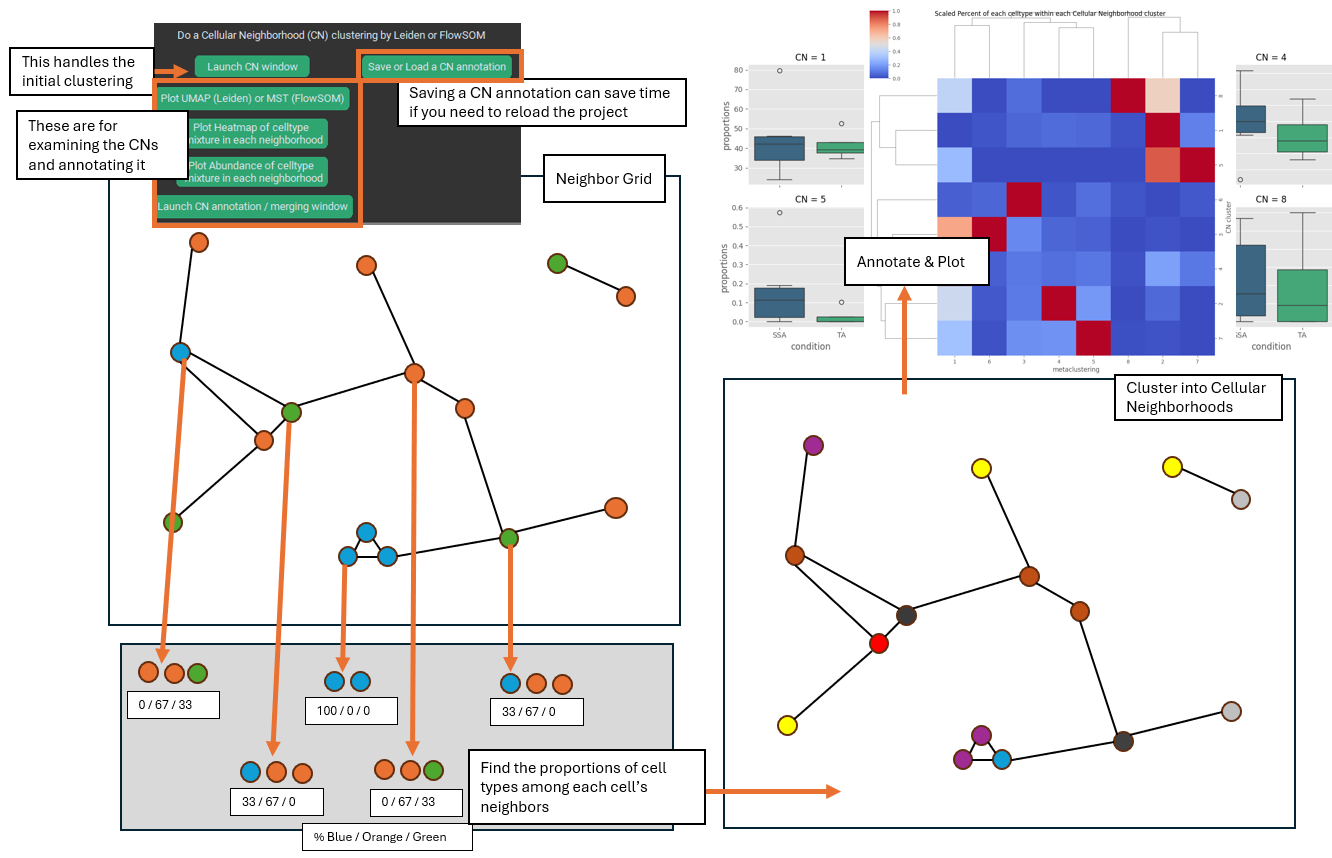
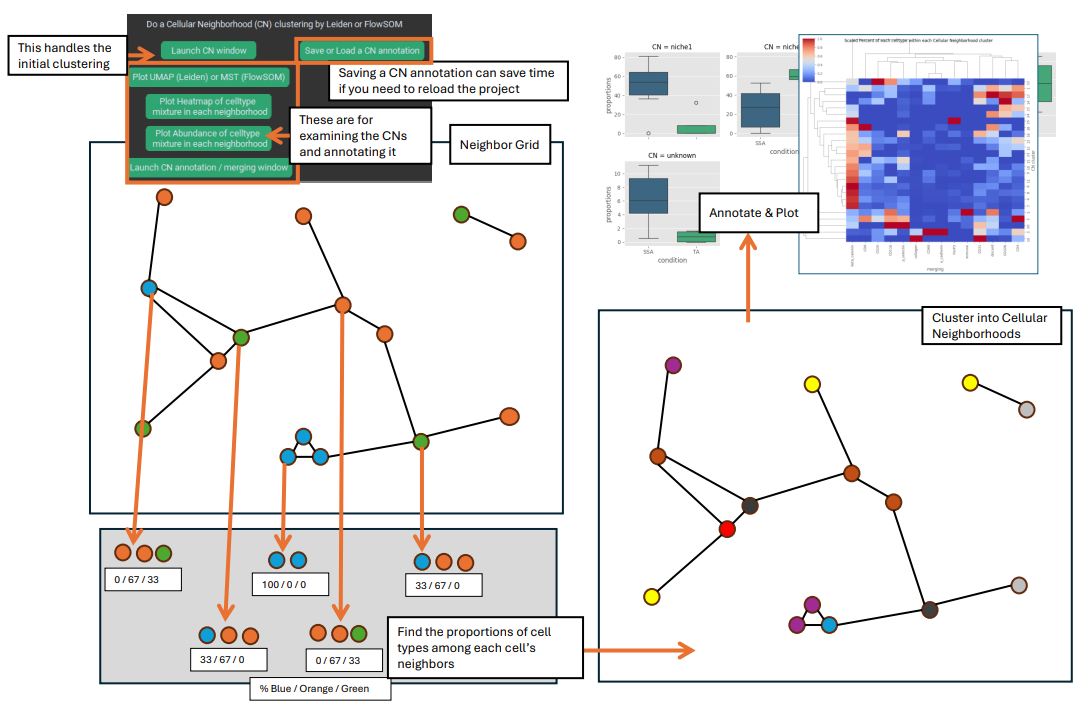
update docs images, edit clustering to classy mask error

diff --git a/palmettobug/Analysis_functions/Analysis.py b/palmettobug/Analysis_functions/Analysis.py
@@ -3222,7 +3222,7 @@ class Analysis:
         zip_dict2 = {}
         for i,ii in zip(unique_sample_ids, unique_labels):
             zip_dict[ii] = int(i) + 1   # 0 is a special number in images!
-            zip_dict2[ii] = str(i + 1)
+            zip_dict2[ii] = str(int(i)) + 1)
         data['label'] = data[clustering].replace(zip_dict)
         data.drop("file_name", axis = 1).to_csv(f'{destination_folder}/{name}.csv', index = False)
         simple_df = pd.DataFrame()

diff --git a/docs/source/WelcometoPalmettoBUG.rst b/docs/source/WelcometoPalmettoBUG.rst
@@ -152,14 +152,12 @@ into html. Other packages used in this process include: nbsphinx (for jupyter no
 and sphinx-rtd-theme.
 
 The media / images (and odp files) in the /docs folder of the GitHub repository were created in 
-Microsoft PowerPoint from screenshots (using Windows Snipping Tool) of the PalmettoBUG program & its output files, as well as screenshots of 
-other programs (like Napari & Windows File Explorer) that are used while analysing the example data  
-Additionally, (of course) PowerPoint objects such as arrows, shapes, etc. were used to compose and arrange the figures, before a 
-final screenshot was taken to save the images as they are displayed here.
+Microsoft PowerPoint and LibreOffice from screenshots (using Windows Snipping Tool) of the PalmettoBUG program & its output files, as well as
+other programs (like Napari & Windows File Explorer) that were used while analysing the example data  
 These screenshots are used under the assumption of fair use given the limited use of such screenshots, the open-source / academic / non-commercial 
 nature of the PalmettoBUG program and its documentation, and the lack of financial consequences from such screenshots -- if this is inaccurate I am happy to remove 
-any offending parts of this documentation. (such copyright concerns could only likely apply to icons in / screenshots of Windows File Explorer, where I may begin to 
-make edits in the documentation anyway, in order to reduce any such concerns)
+any offending parts of this documentation. (such copyright concerns could only likely apply to icons in / screenshots of Windows File Explorer / Microsoft Excel, 
+but I've already begun replacing these with screenshots where I can, using open source alternatives (LibreOffice, Files)).
 
 
 .. |image1| image:: media/Welcome1.png

diff --git a/README.md b/README.md
@@ -13,7 +13,6 @@ Final development plans:
         - Update images and descriptions with new features & data
             -- Premessa / bead-normalization translation --> have a page for this (would require fresh example data?)
             -- scatterplot option, clustering --> classy mask option, and classy mask / pixel class --> PNG options
-            -- Added parameters to existing functions (is_torch, rlen, etc.)
             -- update for replicability with notebooks (same analysis, *mostly* the same steps, etc.)
             -- update to remove / reduce screenshots of prop-licensed software (probably fair use, but won't hurt to do)
         - update text / incorporate proofreading edits
